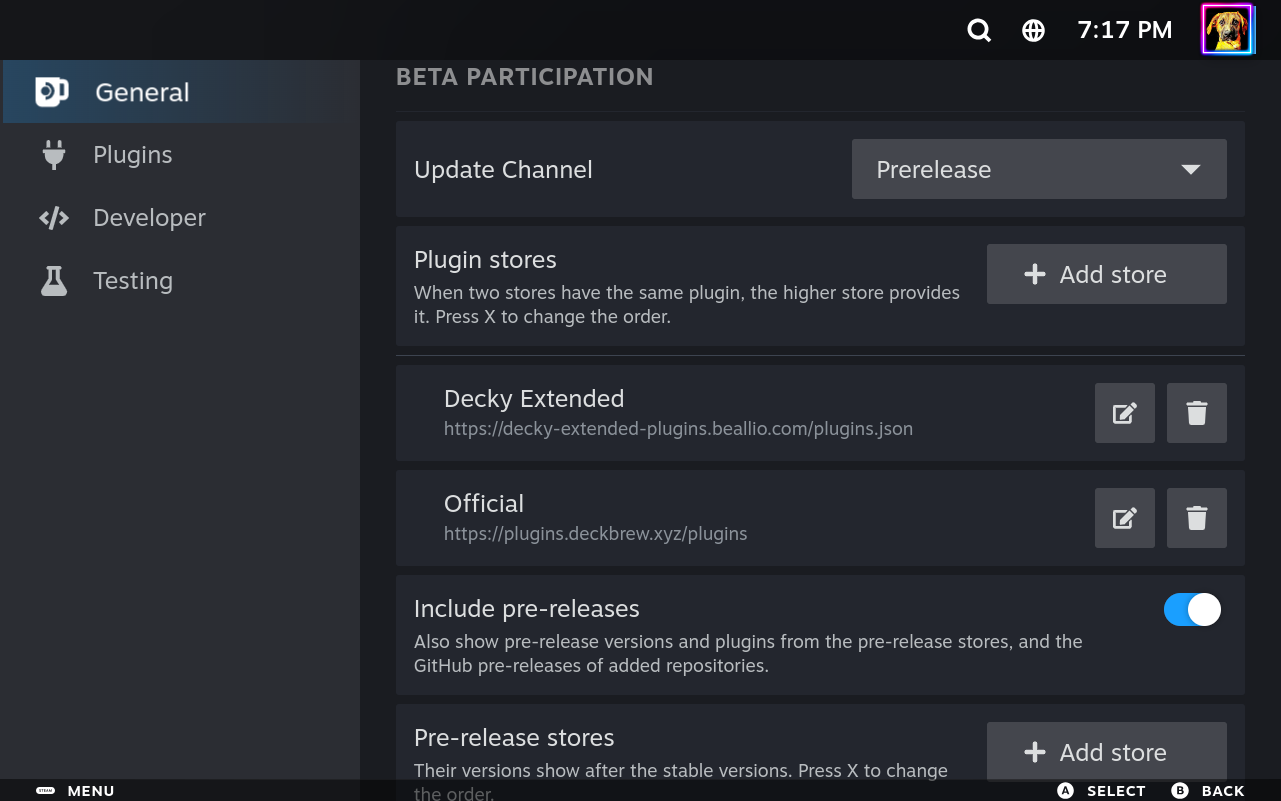
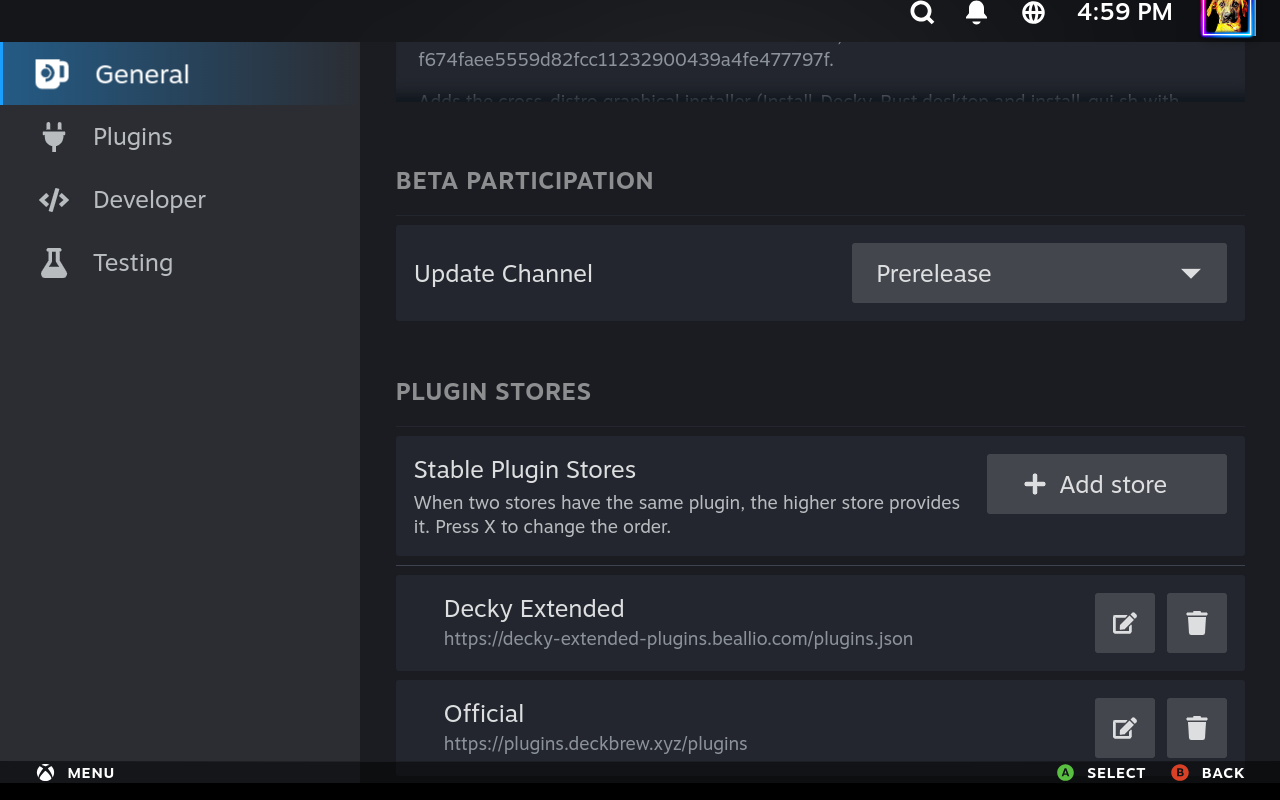
docs: describe the rc.11 settings and Testing changes with screenshots
- New Decky Settings guide (General, Plugins, Developer, Testing) and a pull request build section in the installation guide.
- Plugin stores guide, troubleshooting and README updated for the Plugin stores section, Enable all/Disable all and the Testing install window.
- Development docs: Testing page routes and events, backend channel switch, SDK overlay rule; plugin authors: IconsModule; hooking guide: find icons by registry key.
- Refreshed General and Plugins screenshots; added Developer, Testing, sort menu and install progress screenshots.

diff --git a/docs/development.md b/docs/development.md
@@ -95,9 +95,15 @@ pnpm --dir frontend run build
 
 The output is consumed by both Python packaging and the complete Rust bundle build. The complete runtime builder performs this work in its temporary source snapshot; it does not replace the checkout's generated assets.
 
-Failed plugin installs and uninstalls close their confirmation window and show an error notification. Once an install starts, **Close** (or B) dismisses only the window; it does not cancel the install. To try a failed install again, start a new install request. Cancelling the ZIP picker is a normal exit. A failed update check releases its busy state, and a failed testing-build download does not change the update channel.
+Failed plugin installs and uninstalls close their confirmation window and show an error notification. Once an install starts, **Close** (or B) dismisses only the window; it does not cancel the install. To try a failed install again, start a new install request. Cancelling the ZIP picker is a normal exit. A failed update check releases its busy state.
 
 WebSocket error replies have two shapes: missing-route errors use `error.error`, and failures inside a route use `error.message`. The frontend reads both so that error notifications retain the backend's explanation.
+
+### Testing page
+
+The Testing page calls `updater/get_testing_versions`, which returns each pull request's `id`, `name`, `link`, `head_sha`, `created_at`, `updated_at`, and `author` (an empty string if GitHub has no user). Installing calls `updater/download_testing_version` with the pull request number and head SHA. The backend verifies the testing bundle, stamps a development bundle `PR-<number>`, then sets the update channel to Testing before handing off the install. If the handoff fails, it restores the previous channel.
+
+The backend sends `updater/update_download_percentage` during the download and `updater/finish_download` when it finishes. The install modal stays open, disables dismissal while the install runs, and shows errors inside the modal. The WebSocket router does not reject pending calls when the connection drops; it resends them after reconnect.
 
 Replacing an installed plugin preserves its position in `pluginOrder`, for both normal and root plugins. Fresh installs append once, and a name that is already listed is never appended again. On startup the stored order is deduplicated in first-occurrence order, so a list that already contains a plugin more than once heals. Uninstall removes the entry. Installation still clears that plugin's frozen, hidden, and disabled flags, as before.
 
@@ -235,7 +241,7 @@ The workflow's optional `release_notes` input holds Markdown that is appended be
 
 ```sh
 gh workflow run runtime-release.yml --repo beallio/decky-loader --ref main \
-  -f release_tag=v3.3.1-rust.1-rc.3 -f release_channel=preview -f publish=true \
+  -f release_tag=v3.3.1-rust.1-rc.11 -f release_channel=preview -f publish=true \
   -f release_notes="$(cat notes.md)"
 ```
 
@@ -264,6 +270,8 @@ To move to a new upstream tag:
 4. Set `version` in `backend/pyproject.toml` to the new tag without the `v`. For each package that the report lists, match upstream: change the dependency range in `pyproject.toml` if upstream changed it, then `UV_NO_CONFIG=1 uv lock --upgrade-package NAME==VERSION` in `backend`. `python3 scripts/runtime/python_parity.py` must pass.
 5. Run the local checks and a complete build.
 6. Release as `vX.Y.Z-rust.N` (use `-rc.N` for a preview). See [Release validation and publication](#release-validation-and-publication).
+
+When a change adds or modifies an upstream SDK file, add that path to `SDK_OVERLAYS` in [`scripts/runtime/prepare_bundle.py`](../scripts/runtime/prepare_bundle.py). Bundle assembly checks the overlay list against the pinned SDK baseline, and CI fails if a changed upstream file is missing from the list. For example, the current overlays include `backend/decky_loader/updater.py` and `frontend/src/components/modals/TestingInstallModal.tsx`.
 
 ### UI library
 

diff --git a/README.md b/README.md
@@ -28,7 +28,8 @@ This is an independent fork of [SteamDeckHomebrew/decky-loader](https://github.c
 | **Plugin stores** | Single store at a time; no GitHub repo tracking | **Multiple stores** simultaneously ([Decky Extended](https://decky-extended-plugins.beallio.com/) included), priority ordering, GitHub repo URLs as stores, and custom-store update notices | [Plugin Stores](docs/guides/plugin-stores.md) |
 | **Store browsing** | Basic catalog list; fails or stalls when a store is slow | **6 filters**, sort by update date, `Updated` dates, root badges, GitHub links, **6-hour cache**, and **20 s** per-store timeout | [Plugin Stores](docs/guides/plugin-stores.md) |
 | **Install & recovery** | Single-version system service install | **Clickable GUI installer**, auto-backups before every change, **3-step undo**, and reversible migration from Official Decky | [Installation](docs/guides/installation.md) |
-| **Everyday UI polish** | Modal warning timers on manual ZIP/URL installs; reload-page error lockouts | Clean in-place error recovery, no ZIP/URL warning countdown, dismissed toasts stay cleared, and preserved plugin order | — |
+| **Everyday UI polish** | Modal warning timers on manual ZIP/URL installs; reload-page error lockouts | Clean in-place error recovery, no ZIP/URL warning countdown, dismissed toasts stay cleared, preserved plugin order, and **Enable all / Disable all** for plugins | [Decky Settings](docs/guides/settings.md) |
+| **Testing builds** | Download-only list with progress at the top of the page | Steam-style pull request list with author and dates, sorting, and an install window with progress and in-window errors | [Decky Settings](docs/guides/settings.md#testing) |
 | **Plugin authors** | Python plugin backends only | Live CPU/RAM per plugin (`--status`), optional zero-Python **Rust backends**, and fast `decky.native.dumps` JSON | [Plugin Authors](docs/guides/plugin-authors.md) |
 
 ## Install in 3 steps
@@ -63,6 +64,7 @@ This is an independent fork of [SteamDeckHomebrew/decky-loader](https://github.c
 |---|---|
 | **[Installation & Migration](docs/guides/installation.md)** | Graphical installer walkthrough, moving from Official Decky, 3-step undo, CLI & SSH flags |
 | **[Plugin Stores & GitHub](docs/guides/plugin-stores.md)** | Multiple stores, priority ordering, adding GitHub repos, filters, caching, timeouts |
+| **[Decky Settings](docs/guides/settings.md)** | Tour of the General, Plugins, Developer, and Testing pages; enable or disable all plugins; install pull request builds |
 | **[Root Plugins](docs/guides/root-plugins.md)** | Enabling isolated root plugin support, per-install consent, security rules, turning it off |
 | **[Speed & Memory Benchmarks](docs/guides/benchmarks.md)** | Official Decky vs. Rust loader metrics, Python vs. Rust plugin benchmarks, `--status` |
 | **[Troubleshooting](docs/guides/troubleshooting.md)** | Fixing missing QAM menu, Steam Beta plugin errors, ports 1337/8080, legacy upgrades, debug logs |

diff --git a/docs/guides/settings.md b/docs/guides/settings.md
@@ -1,0 +1,31 @@
+# Decky Settings
+
+Open Decky settings from the Quick Access Menu to manage plugins, stores, updates, and developer options. The **Developer** and **Testing** pages show only when **Developer mode** is on: open **General** -> **Other** and turn on **Developer mode**.
+
+## General
+
+The **General** page has update settings and plugin stores. Scroll to **Plugin stores** to manage stable and pre-release stores. See the [Plugin Stores Guide](./plugin-stores.md).
+
+## Plugins
+
+Use **Enable all** or **Disable all** to change every plugin's state. Decky processes plugins one at a time. If one change fails, Decky shows an error and continues with the others. **Enable all** also enables plugins that you had turned off before.
+
+![Plugins settings with Enable all, Disable all, and Update buttons](../images/screenshots/settings-plugins.png)
+
+## Developer
+
+The **IP** setting for React DevTools accepts an IPv4 address. Enter four numbers from 0 to 255, separated by dots.
+
+![Developer settings with the React DevTools IP setting](../images/screenshots/settings-developer.png)
+
+## Testing
+
+The **Testing** page lists pull request builds. They are not verified for functionality or security, and they may be outdated. You can sort the list by updated date, opened date, pull request number, author, or title.
+
+![Testing page with pull request builds](../images/screenshots/settings-testing.png)
+
+Select the sort label (for example **Updated**) to choose a sort field. Select the arrow icon next to it to switch between ascending and descending order. The value on the right side of each row shows the field you sort by.
+
+![Sort menu on the Testing page](../images/screenshots/testing-sort-menu.png)
+
+To install a build and return to a regular update channel, see [Trying a Pull Request Build](./installation.md#trying-a-pull-request-build).

diff --git a/docs/guides/installation.md b/docs/guides/installation.md
@@ -55,6 +55,22 @@ In Gaming Mode, open Decky settings -> **General** -> **Updates** -> **Check For
 
 ---
 
+## Trying a Pull Request Build
+
+The **Testing** page lists Decky pull request builds. These builds are not verified for functionality or security, and they may be outdated. The page shows only when **Developer mode** is on: open Decky settings -> **General** -> **Other** and turn on **Developer mode**.
+
+![Decky Testing page](../images/screenshots/settings-testing.png)
+
+Choose a build and select **Install**. Review the pull request title, number, and author in the confirmation window, then select **Install** again. Decky downloads the build and reloads. The window shows download progress and the reload status.
+
+![Pull request build downloading](../images/screenshots/testing-install-progress.png)
+
+After the build is installed, Decky switches **Update Channel** to **Testing**. The version is shown as `PR-<number>`.
+
+To return to regular releases, open Decky settings -> **General** -> **Updates**. Choose **Prerelease** or **Stable** under **Update Channel**, then check for updates.
+
+---
+
 ## Undoing an Update & Restoring Official Decky
 
 Every change saves a backup of your `homebrew` folder (your plugins and settings) in `~/decky-user-backups`, keeping the **3 newest copies** and deleting older ones to save disk space. You can change the backup location with `--backup-dir FOLDER`.

diff --git a/docs/guides/plugin-stores.md b/docs/guides/plugin-stores.md
@@ -8,9 +8,9 @@ Decky Loader (Rust fork) can browse, install, and check updates across **multipl
 
 ![Plugin stores list in Decky General settings](../images/screenshots/settings-general-stores.png)
 
-Open Decky settings -> **General** and scroll to **Plugin stores**:
+Open Decky settings -> **General** and scroll past **Beta participation** to **Plugin stores**:
 
-- **Default stores:** **[Decky Extended](https://decky-extended-plugins.beallio.com/)** and the **Official** Decky store are both enabled out of the box.
+- **Stable Plugin Stores:** The list shows your active stable stores. **[Decky Extended](https://decky-extended-plugins.beallio.com/)** and the **Official** Decky store are enabled by default.
 - **Change store priority:** Press **X** on the store list, move a store up or down, and press **X** again to save.
   - When two stores carry the same plugin, the store **higher in the list** is the primary store for that plugin and sends update notices for it.
   - Other versions from lower-priority stores remain available in that plugin's version dropdown.

diff --git a/docs/guides/troubleshooting.md b/docs/guides/troubleshooting.md
@@ -24,6 +24,20 @@ That individual plugin failed to start cleanly, while Decky itself stayed online
 
 ---
 
+## Plugins misbehave
+
+Open Decky settings -> **Plugins** and select **Disable all**. Enable plugins one at a time to find the one causing the problem. **Enable all** also turns on plugins that you had disabled before.
+
+---
+
+## A pull request build cannot be installed
+
+Read the error shown in the install window. If an install fails, Decky keeps the update channel it had before the attempt. For details, see [Trying a Pull Request Build](./installation.md#trying-a-pull-request-build).
+
+If **Install** is greyed out, another Decky update is running. Wait for it to finish, then try again.
+
+---
+
 ## A plugin shows an error after switching to Steam Beta
 
 Steam Beta builds changed how Gaming Mode is built. Valve's change renamed almost all CSS class names and moved most React components and internal stores. Some plugins expect the old names.

diff --git a/docs/guides/plugin-authors.md b/docs/guides/plugin-authors.md
@@ -62,6 +62,7 @@ Plugins get the same `@decky/ui` API that Official Decky gives them on each clie
   /controller:[`"]notification[`"],method:/
   ```
 - **Guard Steam CSS class objects.** LightningCSS removes or renames most class names in the JavaScript on Steam Beta. Check for missing keys and objects.
+- **Use `IconsModule` for Steam's icons.** `IconsModule` from `@decky/ui` gives Steam's named icon set, with keys such as `User`, `Clock`, and `Reload`. On Steam Stable, this fork's loader uses the same named set when Steam has it, and otherwise the older icon module. Names can differ or be missing between Steam clients, so always provide a fallback. Do not copy Valve's SVG data into your plugin.
 - For patterns, safe component discovery, and testing on Steam Beta, see the [Steam UI plugin hooking guide](../vite-esm-hooking.md).
 
 ---

diff --git a/docs/vite-esm-hooking.md b/docs/vite-esm-hooking.md
@@ -79,6 +79,7 @@ Do not compare the text of the file on disk with the runtime `toString()` text. 
 
 - For your own UI, use your own CSS classes or Steam's global classes such as `.BasicUI`, `.GamepadMode`, `.gpfocus`, `.DialogButton`, and `.Primary`.
 - Do not assume that `staticClasses`, `gamepadDialogClasses`, or `findClassModule(...)` contains a given class name on Beta.
+- Oxc strips most `SVGIcon_*` class names on Beta. Find icons by their registry key, not by a class name.
 - For hashed Steam classes in themes or DOM queries, use the class mapping feed from `beallio/steamui-watch`: `https://beallio.github.io/steamui-watch/{stable,beta}.json`. `beallio/SDH-CssLoader` reads this feed.
 
 ## Extra Steam components
